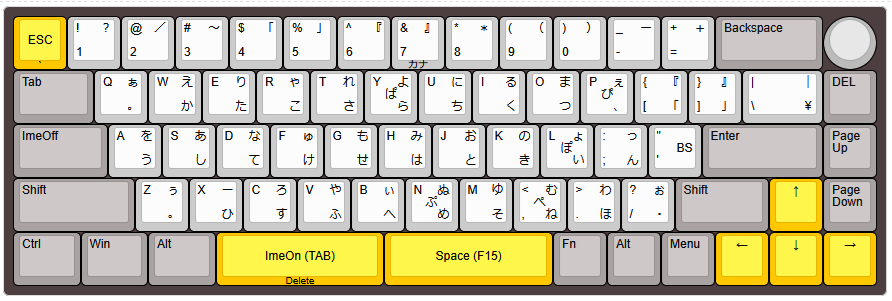
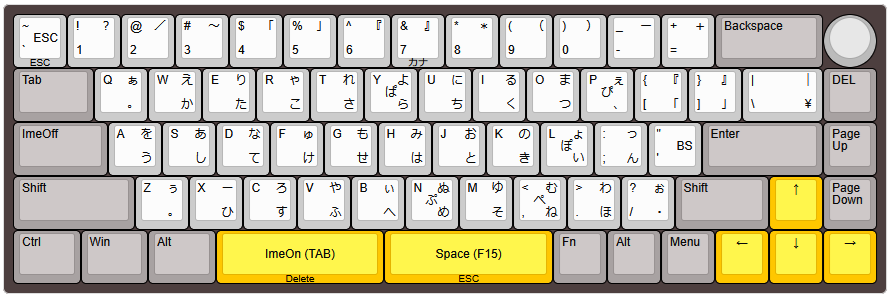
changed key map

diff --git a/keyboards/skyloong/gk68/q1/keymaps/nicola/keymap.c b/keyboards/skyloong/gk68/q1/keymaps/nicola/keymap.c
@@ -35,7 +35,7 @@ const uint16_t PROGMEM keymaps[][MATRIX_ROWS][MATRIX_COLS] = {
      */
 
     [_QWERTY] = LAYOUT_all(
-        KC_ESC,       KC_1,     KC_2,     KC_3,     KC_4,     KC_5,     KC_6,     KC_7,     KC_8,      KC_9,       KC_0,      KC_MINS,  KC_EQL,    KC_BSPC,    KC_ESC,
+        KC_GRV,       KC_1,     KC_2,     KC_3,     KC_4,     KC_5,     KC_6,     KC_7,     KC_8,      KC_9,       KC_0,      KC_MINS,  KC_EQL,    KC_BSPC,    _______,
         KC_TAB,       KC_Q,     KC_W,     KC_E,     KC_R,     KC_T,     KC_Y,     KC_U,     KC_I,      KC_O,       KC_P,      KC_LBRC,  KC_RBRC,   KC_BSLS,    KC_DEL,
         KC_LNG2,      KC_A,     KC_S,     KC_D,     KC_F,     KC_G,     KC_H,     KC_J,     KC_K,      KC_L,       KC_SCLN,   KC_QUOT,             KC_ENT,     KC_PGUP,
         KC_LSFT,      KC_Z,     KC_X,     KC_C,     KC_V,     KC_B,     KC_N,     KC_M,     KC_COMM,   KC_DOT,     KC_SLSH,             KC_RSFT,   KC_UP,      KC_PGDN,
@@ -43,7 +43,7 @@ const uint16_t PROGMEM keymaps[][MATRIX_ROWS][MATRIX_COLS] = {
     ),
 
     [_NICOLA] = LAYOUT_all(
-        KC_ESC,       NG_1,     NG_2,     NG_3,     NG_4,     NG_5,     NG_6,     NG_7,     NG_8,      NG_9,       NG_0,      NG_MINS,  NG_EQL,    KC_BSPC,    KC_ESC,
+        KC_ESC,       NG_1,     NG_2,     NG_3,     NG_4,     NG_5,     NG_6,     NG_7,     NG_8,      NG_9,       NG_0,      NG_MINS,  NG_EQL,    KC_BSPC,    _______,
         KC_TAB,       NG_Q,     NG_W,     NG_E,     NG_R,     NG_T,     NG_Y,     NG_U,     NG_I,      NG_O,       NG_P,      NG_LBRC,  NG_RBRC,   NG_BSLS,    KC_DEL,
         KC_LNG2,      NG_A,     NG_S,     NG_D,     NG_F,     NG_G,     NG_H,     NG_J,     NG_K,      NG_L,       NG_SCLN,   KC_BSPC,             KC_ENT,     KC_PGUP,
         KC_LSFT,      NG_Z,     NG_X,     NG_C,     NG_V,     NG_B,     NG_N,     NG_M,     NG_COMM,   NG_DOT,     NG_SLSH,             KC_RSFT,   KC_UP,      KC_PGDN,
@@ -51,11 +51,11 @@ const uint16_t PROGMEM keymaps[][MATRIX_ROWS][MATRIX_COLS] = {
     ),
 
     [_FUNC] = LAYOUT_all(
-        KC_GRV,       KC_F1,    KC_F2,    KC_F3,    KC_F4,    KC_F5,    KC_F6,    KC_F7,    KC_F8,     KC_F9,      KC_F10,    KC_F11,    KC_F12,   _______,    _______,
+        KC_ESC,       KC_F1,    KC_F2,    KC_F3,    KC_F4,    KC_F5,    KC_F6,    KC_F7,    KC_F8,     KC_F9,      KC_F10,    KC_F11,    KC_F12,   _______,    _______,
         _______,      _______,  _______,  _______,  _______,  _______,  _______,  KC_PSCR,  _______,   _______,    _______,   RGB_RMOD,  RGB_MOD,  RGB_TOG,    _______,
-        KC_CAPS_LOCK, _______,  _______,  _______,  _______,  _______,  _______,  _______,  KC_HOME,   KC_PGUP,    _______,   _______,             _______,    KC_HOME,
-        _______,      _______,  _______,  _______,  _______,  _______,  _______,  _______,  _______,   KC_PGDN,    _______,              _______,  RGB_VAI,    KC_END,
-        _______,      _______,  _______,            KC_DEL,             _______,            KC_F15,    _______,    _______,   _______,   RGB_SPD,  RGB_VAD,    RGB_SPI
+        KC_CAPS_LOCK, _______,  _______,  _______,  _______,  _______,  _______,  _______,  _______,   _______,    _______,   _______,             _______,    KC_HOME,
+        _______,      _______,  _______,  _______,  _______,  _______,  _______,  _______,  _______,   _______,    _______,              _______,  RGB_VAI,    KC_END,
+        _______,      _______,  _______,            KC_DEL,             _______,            KC_ESC,    _______,    _______,   _______,   RGB_SPD,  RGB_VAD,    RGB_SPI
     )
 
 };
@@ -177,11 +177,12 @@ bool rgb_matrix_indicators_advanced_user(uint8_t led_min, uint8_t led_max) {
                 RGB_MATRIX_INDICATOR_SET_COLOR(CAPS_LOCK_INDEX, 255, 255, 0); // CapsLock : off
             }
             RGB_MATRIX_INDICATOR_SET_COLOR(OYA_LEFT_INDEX, 255, 0, 0); // Left Oyayubi key : DEL
-            RGB_MATRIX_INDICATOR_SET_COLOR(FN_BS_INDEX, 255, 0, 0); // function key : DEL
+            RGB_MATRIX_INDICATOR_SET_COLOR(FN_ESC_INDEX, 255, 255, 0); // function key : ESC
+            //RGB_MATRIX_INDICATOR_SET_COLOR(FN_BS_INDEX, 255, 0, 0); // function key : DEL
             RGB_MATRIX_INDICATOR_SET_COLOR(FN_PS_INDEX, 0, 0, 255); // function key : PS
-            RGB_MATRIX_INDICATOR_SET_COLOR(FN_HOME_INDEX, 0, 0, 255); // function key : HOME
-            RGB_MATRIX_INDICATOR_SET_COLOR(FN_PU_INDEX, 0, 0, 255); // function key : PU
-            RGB_MATRIX_INDICATOR_SET_COLOR(FN_PD_INDEX, 0, 0, 255); // function key : PD
+            //RGB_MATRIX_INDICATOR_SET_COLOR(FN_HOME_INDEX, 0, 0, 255); // function key : HOME
+            //RGB_MATRIX_INDICATOR_SET_COLOR(FN_PU_INDEX, 0, 0, 255); // function key : PU
+            //RGB_MATRIX_INDICATOR_SET_COLOR(FN_PD_INDEX, 0, 0, 255); // function key : PD
             break;
     }
     return false;

diff --git a/keyboards/skyloong/gk68/q1/keymaps/nicola/rgb_config.h b/keyboards/skyloong/gk68/q1/keymaps/nicola/rgb_config.h
@@ -3,6 +3,7 @@
 #define OYA_LEFT_INDEX 60
 #define OYA_CENTER_INDEX 61
 #define OYA_RIGHT_INDEX 62
+#define FN_ESC_INDEX 0       // ` : Escape
 #define FN_BS_INDEX 13       // BS : Delete
 #define FN_PS_INDEX 21       // U : PrintScreen
 #define FN_HOME_INDEX 37     // K : Home
